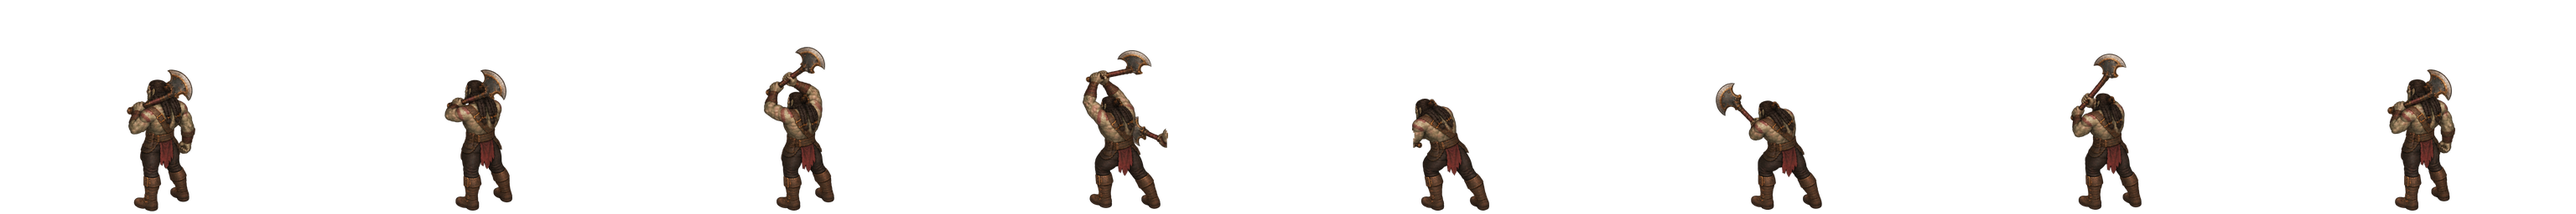
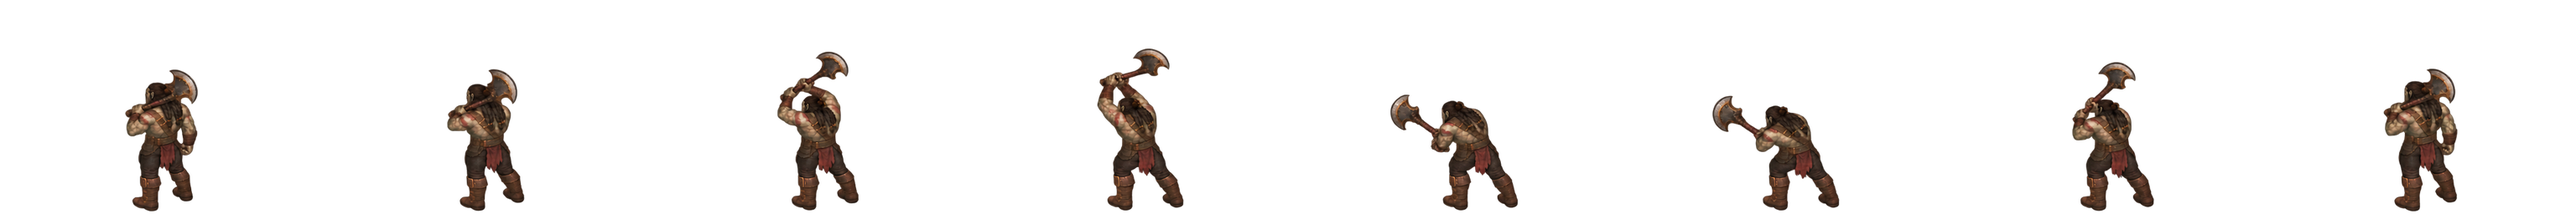
LOT-112 — les sept reprises installées, la mort en cellule large
Les reprises (images séparées par des colonnes vides) remplacent les sept
bandes qui se chevauchaient. La mort passe en cellule large, comme
l'attaque : un corps allongé ne tient pas dans 192 px, et le standard le
dit. Une pose plus haute que la cellule (la hache levée) réduit toute la
bande juste assez pour tenir, et l'installateur le signale.

diff --git a/scripts/install_hd_asset.py b/scripts/install_hd_asset.py
@@ -872,6 +872,15 @@ def install_strip(spec: StripSpec, rgba: np.ndarray, cell: tuple[int, int], grou
     standing = spec.standing_frame
     rows = np.nonzero(images[standing][..., 3].any(axis=1))[0]
     scale = spec.scale if spec.scale is not None else HAUTEUR_FIGURINE / (rows.max() + 1 - rows.min())
+    # Une pose plus haute que la cellule (la hache levée au-dessus de la tête) réduit toute la bande
+    # juste assez pour tenir : quelques pour-cent de moins se voient moins qu'une lame coupée net.
+    extents = [np.nonzero(image[..., 3].any(axis=1))[0] for image in images]
+    lowest = max(int(e.max()) for e in extents)
+    tallest = max(lowest + 1 - int(e.min()) for e in extents)
+    if spec.scale is None and tallest * scale > ground:
+        fitted = (ground - 1) / tallest
+        split = f"{split}, échelle réduite de {100 * (1 - fitted / scale):.0f} % pour tenir"
+        scale = fitted
     if scale > 1.0:
         raise DescriptorError(f"{where} : il faudrait agrandir la bande × {scale:.2f} ; la refaire plus grande")
 

diff --git a/Planning/versions/v0.1.0/v0.0.1-demo/lots/LOT-112-heros-de-la-demo.md b/Planning/versions/v0.1.0/v0.0.1-demo/lots/LOT-112-heros-de-la-demo.md
@@ -146,8 +146,27 @@ silhouette entre 65 et 71, et c'est le même garde d'un bout à l'autre. Verdict
 a confirmé : la ligne `OUTPUT` d'une planche, la ligne `REFERENCE` des envois suivants, le cadrage
 du portrait.
 
+### D8 — Le héros installé, et ce que ses planches ont appris à l'installateur
+
+Les vingt bandes acceptées par l'auteur (`Tools/AssetsHD/Common/Characters/Heroes/brawler/selection-acceptee.json`)
+sont installées dans `Common/Characters/Heroes/brawler/` avec le portrait et le jeton : 4,3 Mio.
+
+- **Le pied le plus bas de toute la bande** se pose sur 252, pas celui de l'image de repos : le
+  générateur ne tient pas sa ligne de sol au pixel, et un appui d'une autre image passait sous le sol.
+- **La découpe rend chaque morceau entier à son image** ; des corps qui se touchent se partagent en
+  croissant depuis le milieu de leur image. Couper aux bornes tranchait les haches.
+- **Une pose plus haute que la cellule** (la hache levée) réduit toute la bande juste assez pour
+  tenir, et l'installateur le dit : 6 % pour l'attaque vue du sud-est, 2 % du nord-est.
+- **La mort passe en cellule large** (384 × 256), comme l'attaque : un corps allongé ne tient pas
+  dans 192 px. Le standard le dit.
+- **Sept bandes ont été recommandées** : leurs images se chevauchaient, et aucune découpe ne départage
+  ce qui est collé. La commande a gagné une ligne `SPACING` ; les reprises se découpent par colonnes
+  vides, sans deviner.
+
 ## Ce qui reste
 
-- **Le héros** : les vingt et un envois de `Tools/AssetsHD/Common/Characters/Heroes/brawler/commande.md`
-  (auteur), son `install.json`, l'installation, la galerie.
-- **Le critère 1** : l'aperçu du héros aux quatre orientations, et le jeu lui-même.
+- **Le critère 1 en jeu, sur une vraie carte** : le héros marche aux quatre orientations dans le jeu
+  et sur la maquette (`build/lot-112/heros-marche.webp`), mais aucune carte HD de la démo n'existe
+  encore (`LOT-107` à `LOT-111`) ; la carte d'essai montre son sol en damier.
+- **L'attaque, le touché et la mort** sont installés sans être joués : le monde ne sait que repos et
+  marche, le combat sur la carte est au `LOT-118`.

diff --git a/CHANGELOG.md b/CHANGELOG.md
@@ -19,8 +19,12 @@ le projet suit le [versionnage sémantique](https://semver.org/lang/fr/).
   pieds glissaient. `install_hd_asset.py` installe une planche de marche (découpe, échelle au cadre
   debout, pieds sur 252, portrait et jeton), `check_hd_assets.py` et la galerie connaissent les
   bandes orientées et les héros rangés par classe, et `preview_figure_walk.py` fait marcher une
-  figurine sur la maquette pour juger sa cadence. Les commandes de l'essai six / huit images et du
-  héros sont prêtes ; les images restent à produire.
+  figurine sur la maquette pour juger sa cadence. L'essai a fixé **huit images** par animation
+  (le standard le dit), et le héros est installé : vingt bandes (cinq animations en quatre
+  orientations), portrait et jeton, dans `Common/Characters/Heroes/brawler/`. La mort passe en
+  cellule large, et l'installateur pose le pied le plus bas de la bande sur le sol, découpe par
+  morceaux entiers au lieu de trancher aux bornes, et réduit une pose trop haute pour qu'elle
+  tienne.
 
 - **La nightly repasse au vert.** Le fuzzing de `fuzz_level` refusait de démarrer : son amorce
   `Source/Elements/Levels/capital` a disparu avec la table rase du `LOT-102` ; il part désormais des

diff --git a/Planning/standards/style-2d-hd.md b/Planning/standards/style-2d-hd.md
@@ -28,7 +28,7 @@ ce qu'elle a appris à la commande d'images est dans [la consigne du générateu
 | Règle | Valeur | Pourquoi |
 |---|---|---|
 | Losange de sol | **256 × 159 px** | à 1080p une case occupe ~100 px d'écran, à 2160p ~200 : l'art est **toujours réduit, jamais agrandi** |
-| Figurine humanoïde | **170 px** de haut, dans une cellule de **192 × 256** ; cellule large **384 × 256** pour l'attaque et le sort | quatre fois la cellule actuelle (48 × 64) : les ancres et le sol (`y = 252`) se transposent |
+| Figurine humanoïde | **170 px** de haut, dans une cellule de **192 × 256** ; cellule large **384 × 256** pour l'attaque, le sort et la mort (un corps allongé ne tient pas dans 192 px, `LOT-112`) | quatre fois la cellule actuelle (48 × 64) : les ancres et le sol (`y = 252`) se transposent |
 | Grande créature | cellule de **384 × 384** | |
 | Alpha | **continu** (8 bits), bords adoucis, **prémultiplié** au chargement | le détourage binaire est ce qui signe le pixel art |
 | Couleur | sRGB, 8 bits par canal, **pas de palette imposée** par image | la cohérence vient de la palette du lieu (§3), pas d'une quantification |

diff --git a/Tools/AssetsHD/Common/Characters/Heroes/brawler/commande.md b/Tools/AssetsHD/Common/Characters/Heroes/brawler/commande.md
@@ -111,5 +111,5 @@ avec `REFERENCE: the attached portrait shows THIS character.` à la place.
 Le descripteur `install.json` de ce dossier se remplit quand les sources arrivent (le nombre
 d'images de chaque bande est celui de l'essai) : `scripts/install_hd_asset.py` les découpe, les pose
 sur la ligne de sol, et installe le tout dans `Source/Elements/Assets/Common/Characters/Heroes/brawler/`.
-La mort est prévue en cellule normale ; si le corps allongé n'y tient pas, l'installateur le dit et
-la bande passe en cellule large.
+La mort passe en cellule large (384 × 256), comme l'attaque : le corps allongé de la mort vue du
+sud-est ne tenait pas dans 192 px.
